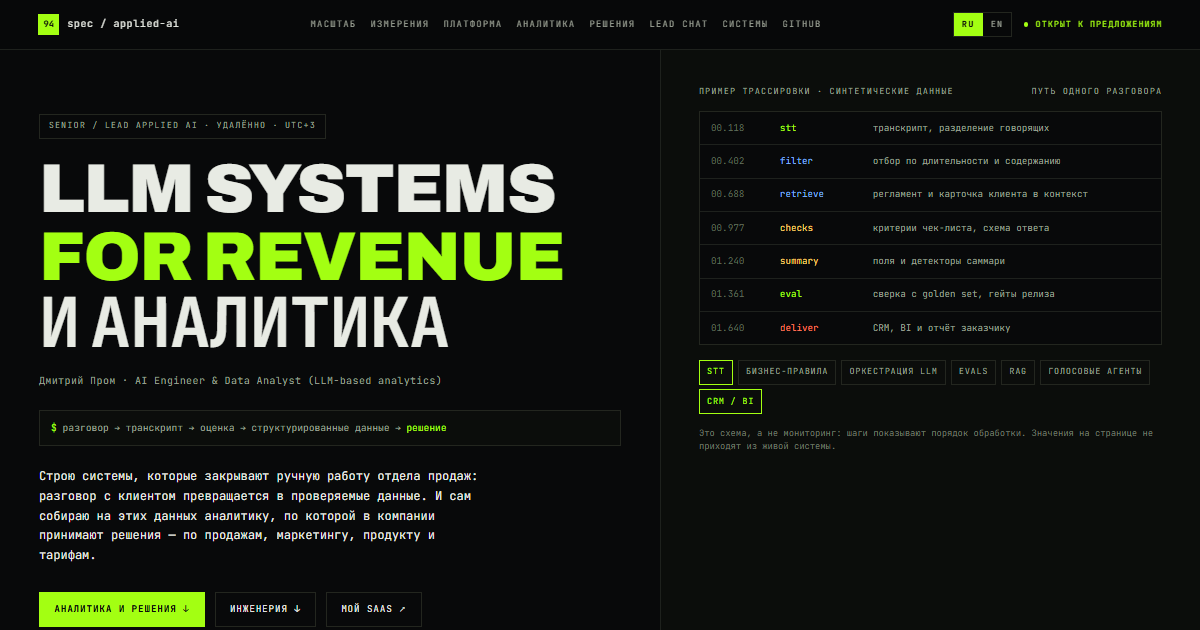
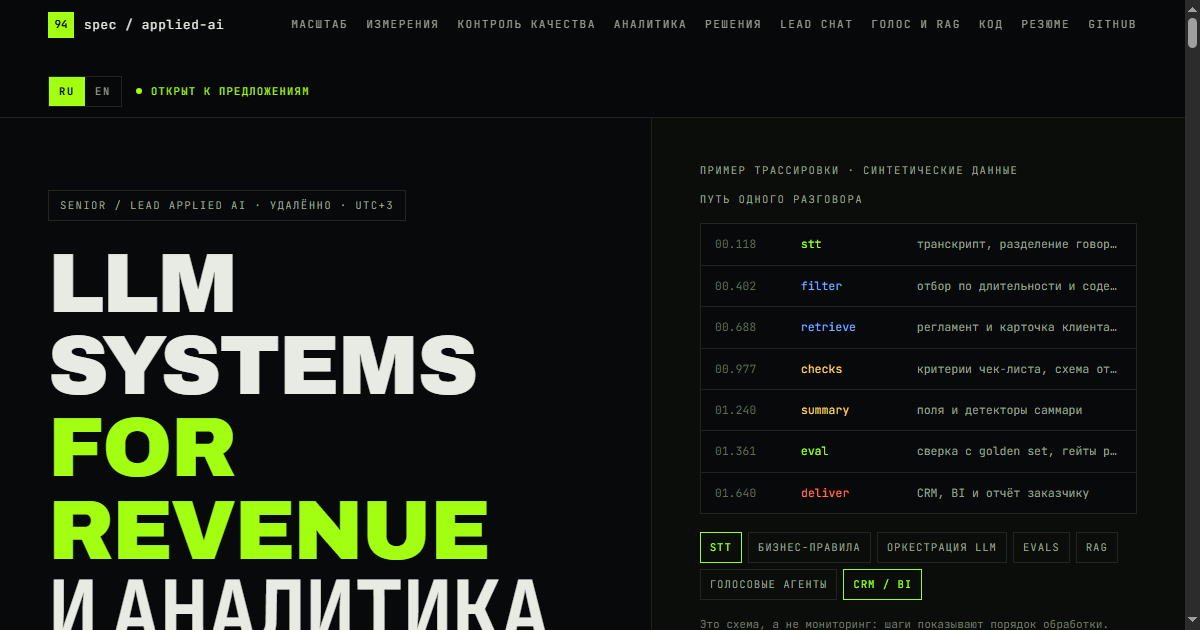
fix: one URL per language, and a preview image of the current page
The en button swapped text in place while /en/ existed as its own address, so
the site had two English versions and no way to reach the canonical one. The
switch is now a link on both pages, and the in-page swap script is gone.

- 404 offers both languages
- og.png regenerated from the current page: the old one previewed a layout that
  no longer exists

diff --git a/index.html b/index.html
@@ -85,6 +85,9 @@ img{max-width:100%;height:auto}
 .menubtn{display:none;font:inherit;font-size:10.5px;letter-spacing:.16em;text-transform:uppercase;
          padding:7px 12px;border:1px solid var(--line2);background:transparent;color:var(--ink);cursor:pointer}
 .langbox{display:flex;border:1px solid var(--line2)}
+.langbox .langlink{display:inline-flex;align-items:center;text-decoration:none;font-size:10.5px;letter-spacing:.16em;text-transform:uppercase;padding:6px 10px;color:var(--muted)}
+.langbox .langlink:hover{color:var(--accent)}
+.langbox .langlink.current{background:var(--accent);color:var(--bg);font-weight:700}
 .langbox button{font:inherit;font-size:10.5px;letter-spacing:.16em;text-transform:uppercase;
                 padding:6px 10px;border:0;background:transparent;color:var(--muted);cursor:pointer}
 .langbox button[aria-pressed="true"]{background:var(--accent);color:var(--bg);font-weight:700}
@@ -258,8 +261,8 @@ td.val{color:var(--accent);white-space:nowrap;font-weight:700}
     <button type="button" class="menubtn" id="menu" aria-expanded="false" aria-controls="nav"
             data-ru="разделы" data-en="sections">разделы</button>
     <div class="langbox" role="group" aria-label="Язык / Language">
-      <button type="button" id="lang-ru" aria-pressed="true">ru</button>
-      <button type="button" id="lang-en" aria-pressed="false">en</button>
+      <span class="langlink current" aria-current="page">ru</span>
+      <a class="langlink" href="/en/" hreflang="en">en</a>
     </div>
     <span class="status"><span class="dot" aria-hidden="true"></span><span data-ru="открыт к предложениям" data-en="open to offers">открыт к предложениям</span></span>
   </div>
@@ -878,22 +881,6 @@ title-prefixed  hybrid       100%  0.882        <b>100%        100%</b></pre>
 <script>
 (function () {
   "use strict";
-  var nodes = document.querySelectorAll("[data-ru][data-en]");
-  var ruBtn = document.getElementById("lang-ru");
-  var enBtn = document.getElementById("lang-en");
-
-  function apply(lang) {
-    for (var i = 0; i < nodes.length; i++) {
-      var el = nodes[i];
-      var value = lang === "en" ? el.getAttribute("data-en") : el.getAttribute("data-ru");
-      if (value !== null) el.innerHTML = value;
-    }
-    document.documentElement.lang = lang;
-    ruBtn.setAttribute("aria-pressed", String(lang === "ru"));
-    enBtn.setAttribute("aria-pressed", String(lang === "en"));
-    try { localStorage.setItem("lang", lang); } catch (e) {}
-  }
-
   var menuBtn = document.getElementById("menu");
   var nav = document.getElementById("nav");
   function setMenu(open) {
@@ -911,13 +898,7 @@ title-prefixed  hybrid       100%  0.882        <b>100%        100%</b></pre>
     if (event.key === "Escape") setMenu(false);
   });
 
-  ruBtn.addEventListener("click", function () { apply("ru"); });
-  enBtn.addEventListener("click", function () { apply("en"); });
 
-  var saved = null;
-  try { saved = localStorage.getItem("lang"); } catch (e) {}
-  if (!saved && navigator.language && navigator.language.slice(0, 2) !== "ru") saved = "en";
-  if (saved === "en") apply("en");
 })();
 </script>
 </body>

diff --git a/en/index.html b/en/index.html
@@ -86,6 +86,7 @@ img{max-width:100%;height:auto}
          padding:7px 12px;border:1px solid var(--line2);background:transparent;color:var(--ink);cursor:pointer}
 .langbox{display:flex;border:1px solid var(--line2)}
 .langbox .langlink{display:inline-flex;align-items:center;text-decoration:none;font-size:10.5px;letter-spacing:.16em;text-transform:uppercase;padding:6px 10px;color:var(--muted)}
+.langbox .langlink:hover{color:var(--accent)}
 .langbox .langlink.current{background:var(--accent);color:var(--bg);font-weight:700}
 .langbox button{font:inherit;font-size:10.5px;letter-spacing:.16em;text-transform:uppercase;
                 padding:6px 10px;border:0;background:transparent;color:var(--muted);cursor:pointer}
@@ -880,7 +881,24 @@ title-prefixed  hybrid       100%  0.882        <b>100%        100%</b></pre>
 <script>
 (function () {
   "use strict";
-  // This page ships English in the markup; only the menu needs behaviour.
+  var menuBtn = document.getElementById("menu");
+  var nav = document.getElementById("nav");
+  function setMenu(open) {
+    nav.setAttribute("data-open", String(open));
+    menuBtn.setAttribute("aria-expanded", String(open));
+  }
+  menuBtn.addEventListener("click", function () {
+    setMenu(nav.getAttribute("data-open") !== "true");
+  });
+  // A menu that stays open over the section you just chose is worse than none.
+  nav.addEventListener("click", function (event) {
+    if (event.target.tagName === "A") setMenu(false);
+  });
+  document.addEventListener("keydown", function (event) {
+    if (event.key === "Escape") setMenu(false);
+  });
+
+
 })();
 </script>
 </body>

diff --git a/404.html b/404.html
@@ -30,7 +30,8 @@
   <p>Такой страницы здесь нет — возможно, ссылка устарела.</p>
   <p>This page does not exist — the link may be outdated.</p>
   <div class="links">
-    <a class="primary" href="/">На главную / Home</a>
+    <a class="primary" href="/">На главную</a>
+    <a class="primary" href="/en/">Home (EN)</a>
     <a href="https://github.com/94spec" rel="noopener">github</a>
     <a href="mailto:xpromx94@yandex.ru">email</a>
   </div>

diff --git a/scripts/build_en.py b/scripts/build_en.py
@@ -81,28 +81,15 @@ def build() -> str:
     text = re.sub(r'<meta name="twitter:title" content="[^"]*">',
                   f'<meta name="twitter:title" content="{EN_TITLE}">', text, count=1)
 
-    # Root-absolute asset paths keep working from /en/; the language buttons
-    # become links between the two URLs, because on this page the swap is done.
-    text = text.replace(
-        '      <button type="button" id="lang-ru" aria-pressed="true">ru</button>\n'
-        '      <button type="button" id="lang-en" aria-pressed="false">en</button>',
-        '      <a class="langlink" href="/" hreflang="ru">ru</a>\n'
-        '      <span class="langlink current" aria-current="page">en</span>')
-    text = text.replace(
-        ".langbox button{font:inherit;",
-        ".langbox .langlink{display:inline-flex;align-items:center;text-decoration:none;"
-        "font-size:10.5px;letter-spacing:.16em;text-transform:uppercase;padding:6px 10px;"
-        "color:var(--muted)}\n"
-        ".langbox .langlink.current{background:var(--accent);color:var(--bg);font-weight:700}\n"
-        ".langbox button{font:inherit;")
-
-    # The language script has nothing to do here: this page is already English.
-    text = re.sub(r"  var nodes = document\.querySelectorAll.*?if \(saved === \"en\"\) apply\(\"en\"\);",
-                  "  // This page ships English in the markup; only the menu needs behaviour.",
-                  text, flags=re.S)
-    text = text.replace('  ruBtn.addEventListener("click", function () { apply("ru"); });\n', "")
-    text = text.replace('  enBtn.addEventListener("click", function () { apply("en"); });\n', "")
-    text = re.sub(r"  var ruBtn = .*?\n  var enBtn = .*?\n", "", text)
+    # One URL per language, so the switch is a link on both pages — here it
+    # points back to Russian, and English is the page you are on.
+    switch_ru = ('      <span class="langlink current" aria-current="page">ru</span>\n'
+                 '      <a class="langlink" href="/en/" hreflang="en">en</a>')
+    switch_en = ('      <a class="langlink" href="/" hreflang="ru">ru</a>\n'
+                 '      <span class="langlink current" aria-current="page">en</span>')
+    if switch_ru not in text:
+        raise SystemExit("the language switch markup changed — update build_en.py")
+    text = text.replace(switch_ru, switch_en)
 
     return text
 
